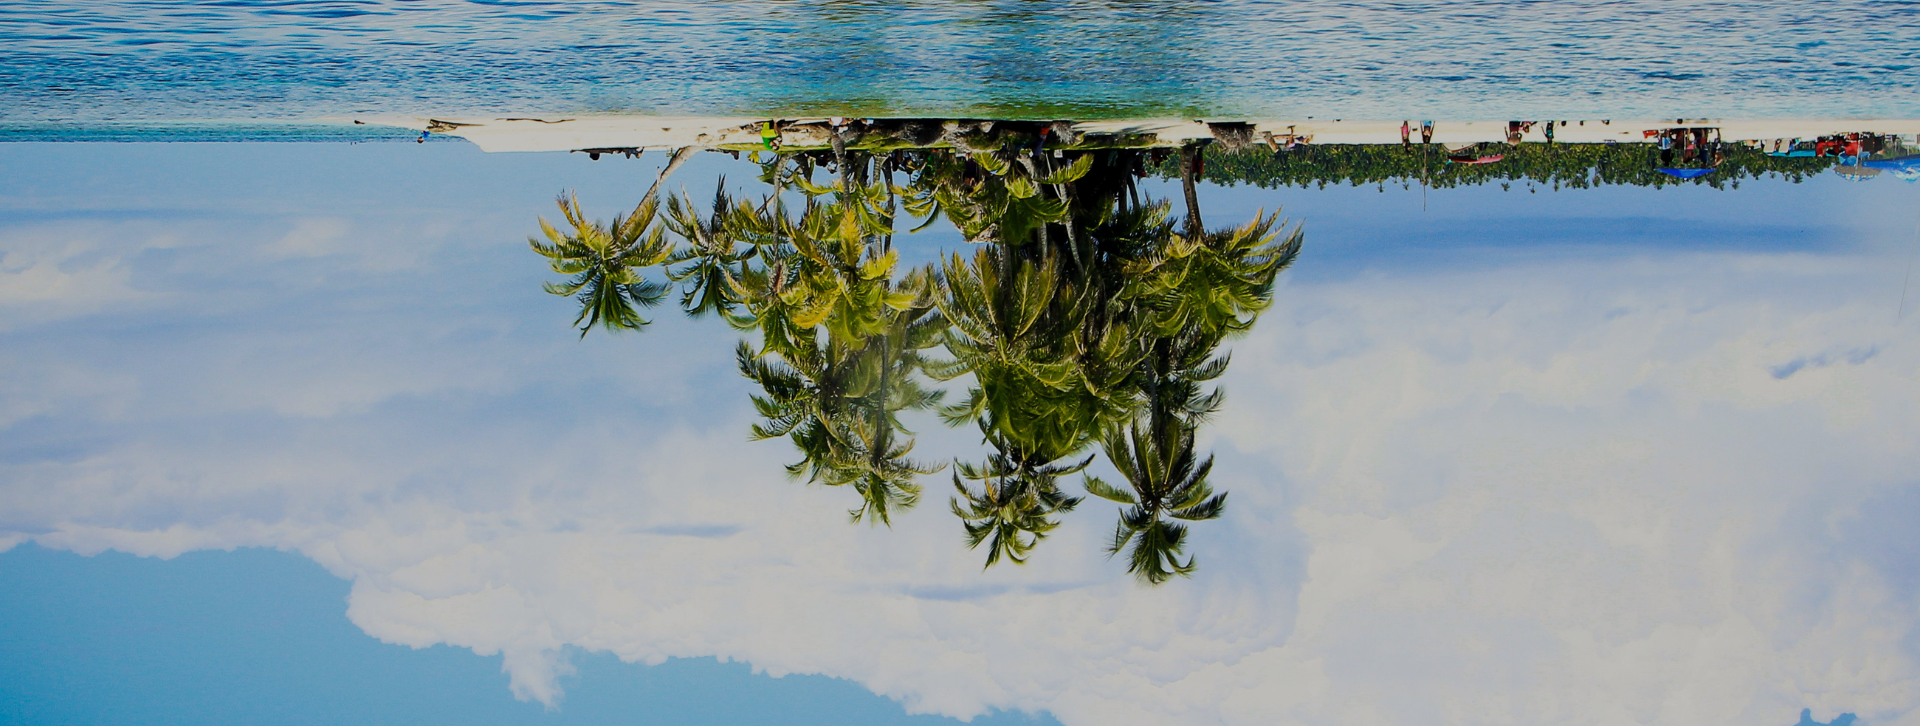
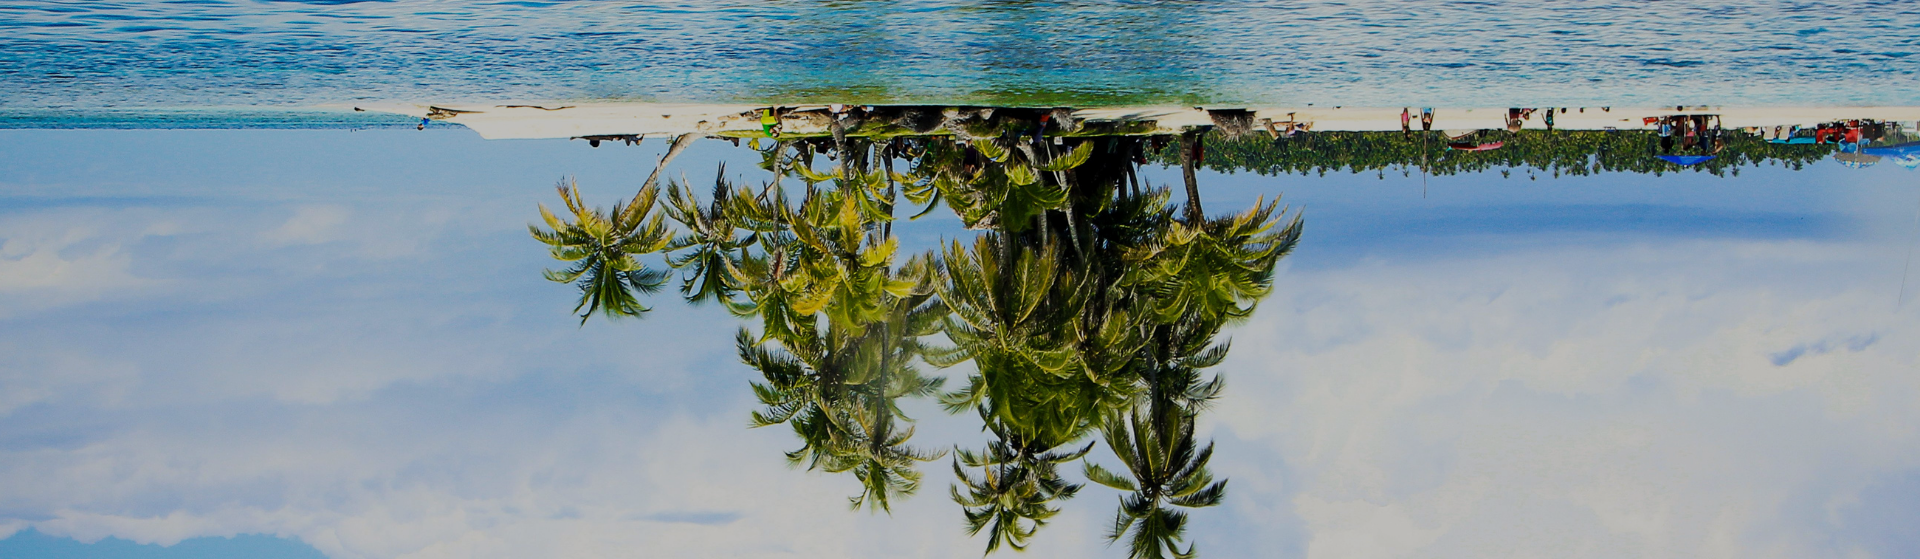
xd

diff --git a/uiparadox.co.uk/templates/globe-trekk/v3/index.html b/uiparadox.co.uk/templates/globe-trekk/v3/index.html
@@ -437,14 +437,11 @@
                             </div>
                             <div class="row py-64 align-items-center">
                                 <div class="col-lg-5 order-lg-1 order-2">
-                                    <h2 class="mb-8">NETHERLANDS</h2>
-                                    <p class="pe-sm-5">Lorem ipsum dolor sit amet consectetur. Aliquam in neque eleifend
-                                        placerat scelerisque tincidunt erat porttitor. Sed sed in suscipit lorem. Ut
-                                        felis velit tristique posuere tellus sed. Arcu convallis nam massa leo viverra
-                                        volutpat facilisis. Nulla sagittis nam pellentesque sagittis in turpis nulla et.
-                                        Varius felis pellentesque molestie justo semper id. Donec tortor dui et etiam.
-                                        Vitae fermentum nibh nam ac aliquet fringilla ante integer. Scelerisque
-                                        adipiscing eget nisl ut molestie.</p>
+                                    <h2 class="mb-8">PANAMA CANAL</h2>
+                                    <p class="pe-sm-5">They are impressive feats of modern engineering that act as hydraulic lifts to move ships between two oceans. 
+                                        They raise vessels to the level of Gatun Lake and then grardually lower them toward their final destination port. 
+                                        Complexes such as the Miraflores Locks offer visitor centers where one can witness this incredible process up close. 
+                                        They represent the heart of global maritime trade and the country's history of technical innovation.</p>
                                 </div>
                                 <div class="col-lg-6 offset-lg-1 order-lg-2 order-1">
                                     <div class="box-blur-bg mb-16 mb-lg-0">
@@ -461,26 +458,20 @@
                                     </div>
                                 </div>
                                 <div class="col-lg-5 offset-lg-1">
-                                    <h2 class="mb-8">GREECE</h2>
-                                    <p class="pe-sm-5">Lorem ipsum dolor sit amet consectetur. Aliquam in neque eleifend
-                                        placerat scelerisque tincidunt erat porttitor. Sed sed in suscipit lorem. Ut
-                                        felis velit tristique posuere tellus sed. Arcu convallis nam massa leo viverra
-                                        volutpat facilisis. Nulla sagittis nam pellentesque sagittis in turpis nulla et.
-                                        Varius felis pellentesque molestie justo semper id. Donec tortor dui et etiam.
-                                        Vitae fermentum nibh nam ac aliquet fringilla ante integer. Scelerisque
-                                        adipiscing eget nisl ut molestie.</p>
+                                    <h2 class="mb-8">CONTADORA ISLAND</h2>
+                                    <p class="pe-sm-5">Located in the Las Perlas archipelago, it is a tropical paradise surrounded by crystal-clear waters and white sands. 
+                                        During the colonial era, it served as a counting point for pearls harvested in the gulf—hence its distinctive name. 
+                                        Today, it offers an exclusive retreat ideal for humpback whale watching, snorkeling, and relaxation. 
+                                        Thanks to its abundant marine life, it stands out as one of the premier tourist gems of the Panamanian Pacific.</p>
                                 </div>
                             </div>
                             <div class="row py-64 align-items-center">
                                 <div class="col-lg-5 order-lg-1 order-2">
-                                    <h2 class="mb-8">ITALY</h2>
-                                    <p class="pe-sm-5">Lorem ipsum dolor sit amet consectetur. Aliquam in neque eleifend
-                                        placerat scelerisque tincidunt erat porttitor. Sed sed in suscipit lorem. Ut
-                                        felis velit tristique posuere tellus sed. Arcu convallis nam massa leo viverra
-                                        volutpat facilisis. Nulla sagittis nam pellentesque sagittis in turpis nulla et.
-                                        Varius felis pellentesque molestie justo semper id. Donec tortor dui et etiam.
-                                        Vitae fermentum nibh nam ac aliquet fringilla ante integer. Scelerisque
-                                        adipiscing eget nisl ut molestie.</p>
+                                    <h2 class="mb-8">PANAMA VIEJO</h2>
+                                    <p class="pe-sm-5">This is the archaeological site where the first Spanish city on the Pacific coast of the Americas was founded in 1519. 
+                                        Its impressive historical ruins preserve the memory of the former capital prior to its destruction by Henry Morgan. 
+                                        Recognized as a UNESCO World Heritage Site, it allows visitors to explore colonial history. 
+                                        Its famous cathedral tower offers a stunning panoramic view of both modern and ancient architecture.</p>
                                 </div>
                                 <div class="col-lg-6 offset-lg-1 order-lg-2 order-1">
                                     <div class="box-blur-bg mb-16 mb-lg-0">

diff --git a/uiparadox.co.uk/templates/globe-trekk/v3/assets/css/app.css b/uiparadox.co.uk/templates/globe-trekk/v3/assets/css/app.css
@@ -3028,11 +3028,12 @@ body.ui-search-open .scrollbar-track {
   font-weight: 700;
   line-height: 70%;
   letter-spacing: -0.308vw;
-  z-index: 1;
+  z-index: 9999;
   top: 50%;
   left: 50%;
   transform: translate(-50%, -56%);
 }
+
 
 @media (max-width: 575px) {
   .hero-banner-1 .title {
